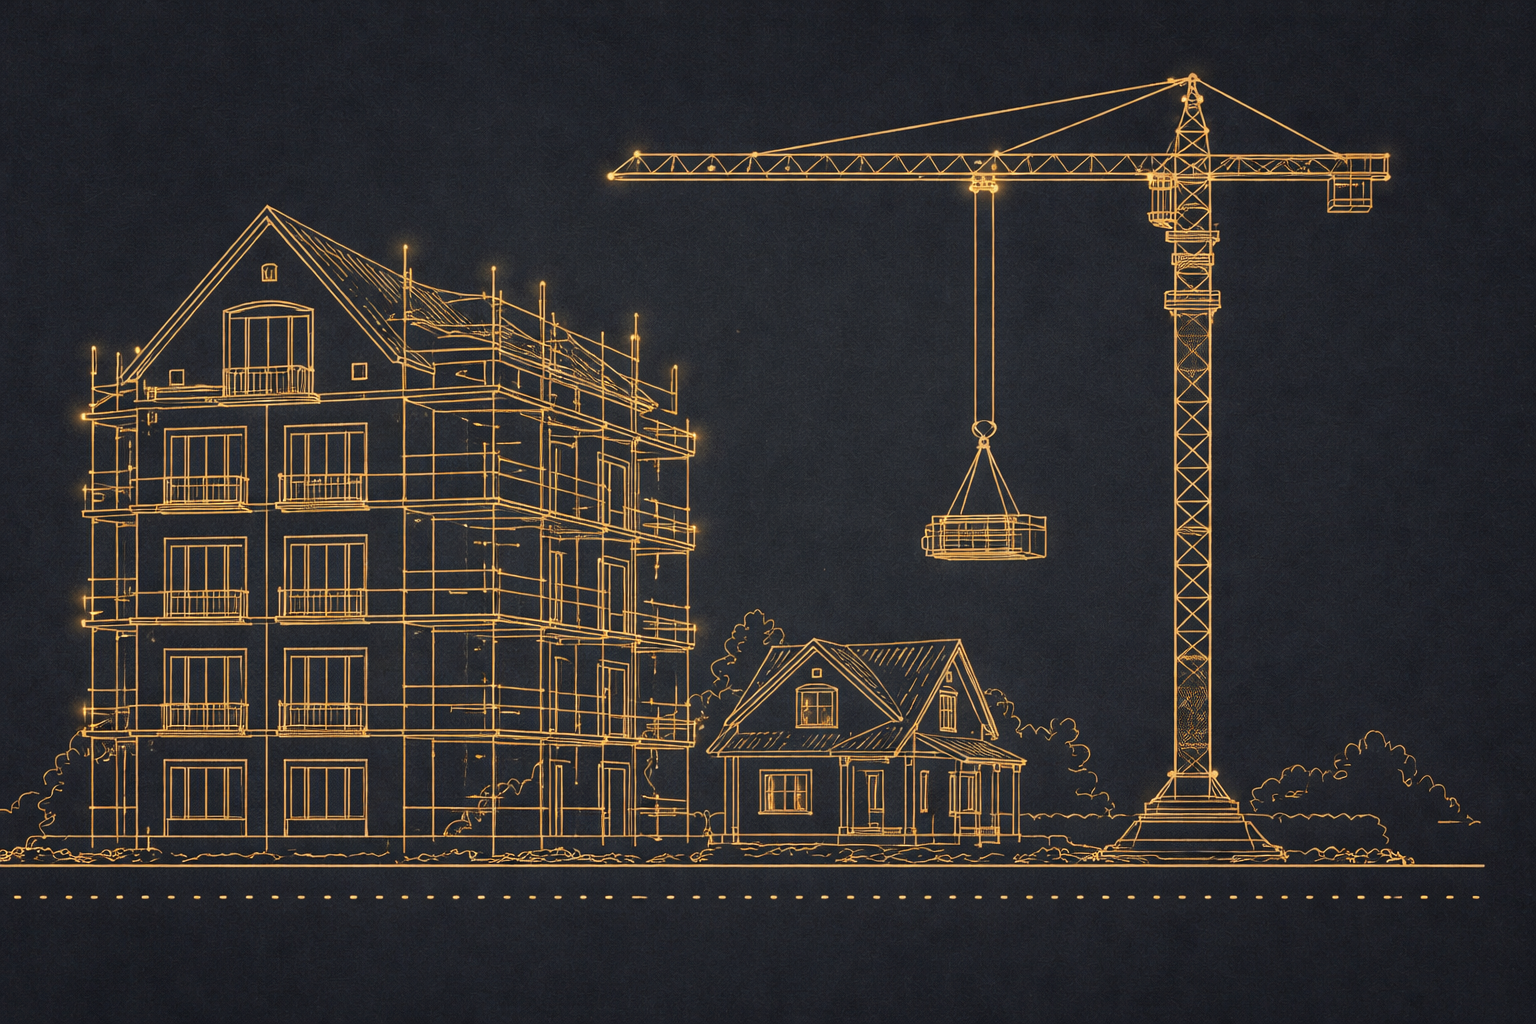
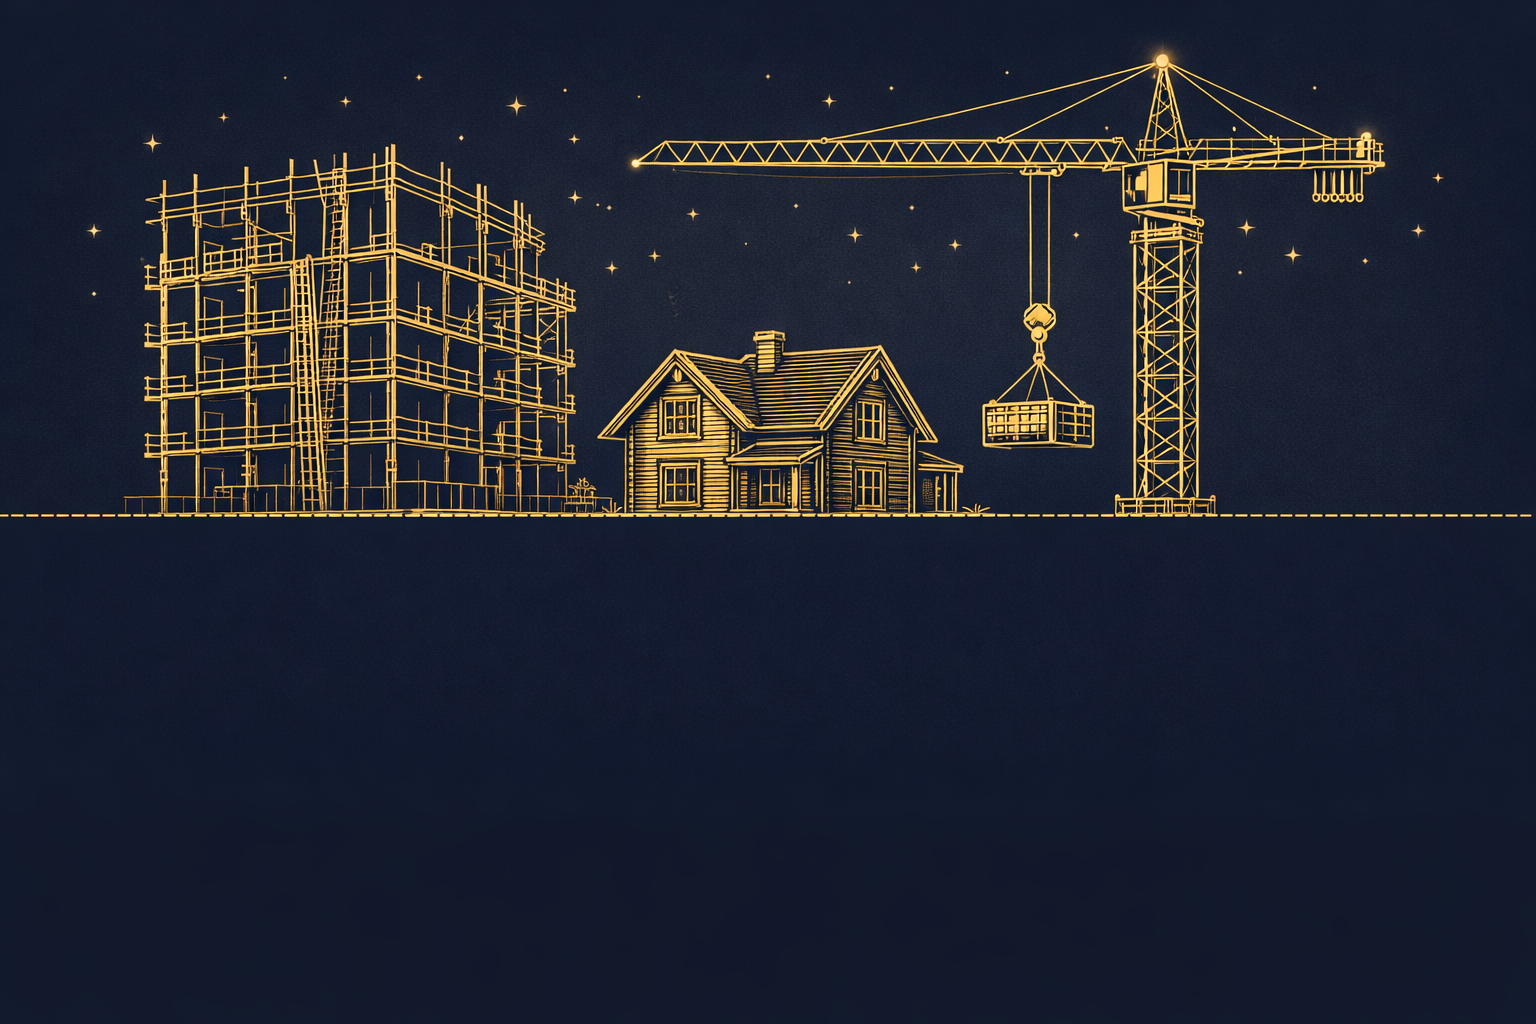
feat: updated card illustrations, luxury footer, responsive polish
- New AI-generated card illustrations with mixBlendMode: lighten
- Redesigned footer with luxury contact button (Cormorant, gold border, hover fill)
- Copyright fixed bottom-right on desktop, responsive on mobile
- Cards: per-card titleSize for long titles, aspect-ratio 3/2, quality=90
- Section title enlarged with proper spacing
- LangSwitcher font size +2px, copyright matches style
- Mobile: single-column cards with 16:9 ratio, centered layout

diff --git a/src/components/home/Categories.tsx b/src/components/home/Categories.tsx
@@ -11,6 +11,7 @@ const cards: {
   titleKey: TranslationKey;
   descKey: TranslationKey;
   image: string;
+  titleSize?: string;
 }[] = [
   {
     slug: "construction",
@@ -35,12 +36,14 @@ const cards: {
     titleKey: "cardMining",
     descKey: "cardMiningDesc",
     image: "/images/directions/minerals.png",
+    titleSize: "clamp(0.78rem, 1vw, 0.95rem)",
   },
   {
     slug: "projects",
     titleKey: "cardProjects",
     descKey: "cardProjectsDesc",
     image: "/images/directions/projects.png",
+    titleSize: "clamp(0.78rem, 1vw, 0.95rem)",
   },
 ];
 
@@ -69,9 +72,11 @@ export default function Categories() {
           className="uppercase"
           style={{
             fontFamily: "var(--font-body)",
-            fontSize: "10px",
-            letterSpacing: "3.5px",
-            color: "rgba(184, 154, 90, 0.4)",
+            fontSize: "clamp(0.7rem, 1vw, 0.85rem)",
+            fontWeight: 300,
+            letterSpacing: "0.25em",
+            color: "var(--gold-200)",
+            opacity: 0.5,
           }}
         >
           {t("sectionTitle")}
@@ -79,7 +84,7 @@ export default function Categories() {
       </motion.div>
 
       {/* Cards grid */}
-      <div className="grid gap-[14px] grid-cols-1 sm:grid-cols-1 md:grid-cols-3 lg:grid-cols-5">
+      <div className="grid gap-[14px] grid-cols-1 max-[480px]:max-w-[320px] max-[480px]:mx-auto sm:grid-cols-2 md:grid-cols-3 lg:grid-cols-5">
         {cards.map((card, i) => {
           const variant = cardVariants[i] || cardVariants[2];
 
@@ -106,34 +111,65 @@ export default function Categories() {
                 duration: 0.9,
                 ease: easings.smooth,
               }}
-              className="group relative flex flex-col items-center text-center cursor-pointer overflow-hidden"
+              className="group relative cursor-pointer overflow-hidden max-[480px]:!aspect-[16/9]"
               style={{
-                background: "rgba(160, 170, 195, 0.08)",
-                border: "1px solid rgba(160, 170, 195, 0.1)",
                 borderRadius: 14,
-                minHeight: 180,
+                border: "1px solid rgba(160, 170, 195, 0.1)",
+                aspectRatio: "3 / 2",
                 transition: "all 0.4s ease",
+                background: "var(--bg-deep)",
               }}
               onMouseEnter={(e) => {
-                e.currentTarget.style.background = "rgba(160, 170, 195, 0.13)";
-                e.currentTarget.style.borderColor = "rgba(184, 154, 90, 0.2)";
+                e.currentTarget.style.borderColor = "rgba(184, 154, 90, 0.25)";
               }}
               onMouseLeave={(e) => {
-                e.currentTarget.style.background = "rgba(160, 170, 195, 0.08)";
                 e.currentTarget.style.borderColor = "rgba(160, 170, 195, 0.1)";
               }}
             >
-              {/* Illustration — covers entire card */}
-              <div className="absolute inset-0 overflow-hidden rounded-[14px]">
-                <Image
-                  src={card.image}
-                  alt={t(card.titleKey)}
-                  fill
-                  sizes="(max-width: 768px) 320px, 280px"
-                  className="opacity-60 group-hover:opacity-95 transition-all duration-500"
-                  style={{ objectFit: "cover" }}
-                  loading="lazy"
-                />
+              {/* Image fills entire card */}
+              <Image
+                src={card.image}
+                alt={t(card.titleKey)}
+                fill
+                sizes="(max-width: 480px) 100vw, (max-width: 768px) 50vw, 20vw"
+                quality={90}
+                className="opacity-65 group-hover:opacity-95 group-hover:scale-[1.02] transition-all duration-500"
+                style={{ objectFit: "cover", objectPosition: "center top", mixBlendMode: "lighten" }}
+              />
+
+              {/* Text overlay — bottom 40% */}
+              <div
+                className="absolute bottom-0 left-0 right-0 flex flex-col justify-start"
+                style={{
+                  height: "40%",
+                  padding: "0 1.2rem 1rem",
+                }}
+              >
+                <h3
+                  className="uppercase"
+                  style={{
+                    fontFamily: "var(--font-body)",
+                    fontSize: card.titleSize || "clamp(0.925rem, 1.2vw, 1.125rem)",
+                    whiteSpace: "nowrap" as const,
+                    fontWeight: 400,
+                    color: "var(--gold-100)",
+                    letterSpacing: "0.2em",
+                    marginBottom: 6,
+                    lineHeight: 1.3,
+                  }}
+                >
+                  {t(card.titleKey)}
+                </h3>
+                <p
+                  style={{
+                    fontFamily: "var(--font-body)",
+                    fontSize: 11,
+                    color: "var(--text-tertiary)",
+                    lineHeight: 1.5,
+                  }}
+                >
+                  {t(card.descKey)}
+                </p>
               </div>
             </motion.a>
           );

diff --git a/src/components/layout/Footer.tsx b/src/components/layout/Footer.tsx
@@ -1,37 +1,64 @@
 "use client";
 
-export default function Footer() {
-  return (
-    <footer className="relative flex flex-col items-center py-10">
-      {/* Contact pill button */}
-      <a
-        href="/contacts"
-        className="font-light uppercase rounded-full transition-all duration-400 hover:border-[rgba(184,154,90,0.35)] hover:text-[var(--gold-200)]"
-        style={{
-          fontFamily: "var(--font-body)",
-          fontSize: "0.65rem",
-          letterSpacing: "0.18em",
-          color: "var(--text-tertiary)",
-          border: "1px solid rgba(255,255,255,0.08)",
-          padding: "8px 28px",
-        }}
-      >
-        Контакти
-      </a>
+import { useLang } from "@/providers/LangProvider";
 
-      {/* Copyright */}
+export default function Footer() {
+  const { t } = useLang();
+
+  return (
+    <>
+      <footer className="relative flex justify-center" style={{ marginTop: "3.5rem", marginBottom: "2rem" }}>
+        {/* Contact button — luxury style */}
+        <a
+          href="/contacts"
+          className="group relative inline-flex items-center justify-center overflow-hidden uppercase transition-all duration-500"
+          style={{
+            fontFamily: "var(--font-display)",
+            fontSize: 18,
+            fontWeight: 500,
+            letterSpacing: "5px",
+            color: "var(--gold-300)",
+            border: "1px solid rgba(184, 154, 90, 0.4)",
+            borderRadius: 14,
+            padding: "16px 48px",
+            textDecoration: "none",
+            background: "transparent",
+            transition: "all 0.5s cubic-bezier(0.4, 0, 0.2, 1)",
+          }}
+          onMouseEnter={(e) => {
+            e.currentTarget.style.borderColor = "rgba(184, 154, 90, 0.7)";
+            e.currentTarget.style.color = "var(--gold-200)";
+            e.currentTarget.style.letterSpacing = "4px";
+          }}
+          onMouseLeave={(e) => {
+            e.currentTarget.style.borderColor = "rgba(184, 154, 90, 0.4)";
+            e.currentTarget.style.color = "var(--gold-300)";
+            e.currentTarget.style.letterSpacing = "3px";
+          }}
+        >
+          {/* Hover fill — left to right */}
+          <span
+            className="absolute top-0 left-0 h-full w-0 group-hover:w-full transition-all duration-500"
+            style={{ background: "rgba(184, 154, 90, 0.12)", zIndex: 0 }}
+          />
+          <span className="relative z-10">{t("contacts")}</span>
+        </a>
+      </footer>
+
+      {/* Copyright — fixed bottom-right, LangSwitcher style */}
       <span
-        className="mt-6 font-light"
+        className="font-light uppercase mt-6 md:fixed md:bottom-5 md:right-7 md:mt-0"
         style={{
           fontFamily: "var(--font-body)",
-          fontSize: "0.58rem",
-          letterSpacing: "0.08em",
+          fontSize: "0.725rem",
+          letterSpacing: "0.12em",
           color: "var(--text-tertiary)",
-          opacity: 0.5,
+          opacity: 0.6,
+          zIndex: 10,
         }}
       >
         © {new Date().getFullYear()} ICG
       </span>
-    </footer>
+    </>
   );
 }

diff --git a/src/components/home/Hero.tsx b/src/components/home/Hero.tsx
@@ -12,6 +12,7 @@ import LangSwitcher from "@/components/ui/LangSwitcher";
 
 import Metrics from "./Metrics";
 import Categories from "./Categories";
+import Footer from "@/components/layout/Footer";
 
 gsap.registerPlugin(ScrollTrigger);
 
@@ -245,32 +246,8 @@ export default function Hero() {
       {/* Categories */}
       <Categories />
 
-      {/* Footer: contact pill + copyright */}
-      <div className="absolute bottom-5 left-0 right-0 flex flex-col items-center gap-2">
-        <a
-          href="/contacts"
-          className="font-light uppercase rounded-full transition-all duration-400 hover:border-[rgba(184,154,90,0.35)] hover:text-[var(--gold-200)]"
-          style={{
-            fontFamily: "var(--font-body)",
-            fontSize: "clamp(0.75rem, 1vw, 0.9rem)",
-            letterSpacing: "0.2em",
-            color: "var(--gold-100)",
-            border: "1px solid rgba(184,154,90,0.25)",
-            padding: "8px 32px",
-          }}
-        >
-          {t("contacts")}
-        </a>
-        <span
-          className="font-light"
-          style={{
-            fontFamily: "var(--font-body)", fontSize: "0.7rem",
-            letterSpacing: "0.08em", color: "var(--text-tertiary)", opacity: 0.4,
-          }}
-        >
-          © {new Date().getFullYear()} ICG
-        </span>
-      </div>
+      {/* Footer */}
+      <Footer />
     </section>
   );
 }

diff --git a/src/components/ui/LangSwitcher.tsx b/src/components/ui/LangSwitcher.tsx
@@ -15,7 +15,7 @@ export default function LangSwitcher() {
             className="font-light uppercase transition-all duration-300"
             style={{
               fontFamily: "var(--font-body)",
-              fontSize: "0.6rem",
+              fontSize: "0.725rem",
               letterSpacing: "0.12em",
               color: locale === l ? "var(--gold-200)" : "var(--text-tertiary)",
               opacity: locale === l ? 1 : 0.6,
